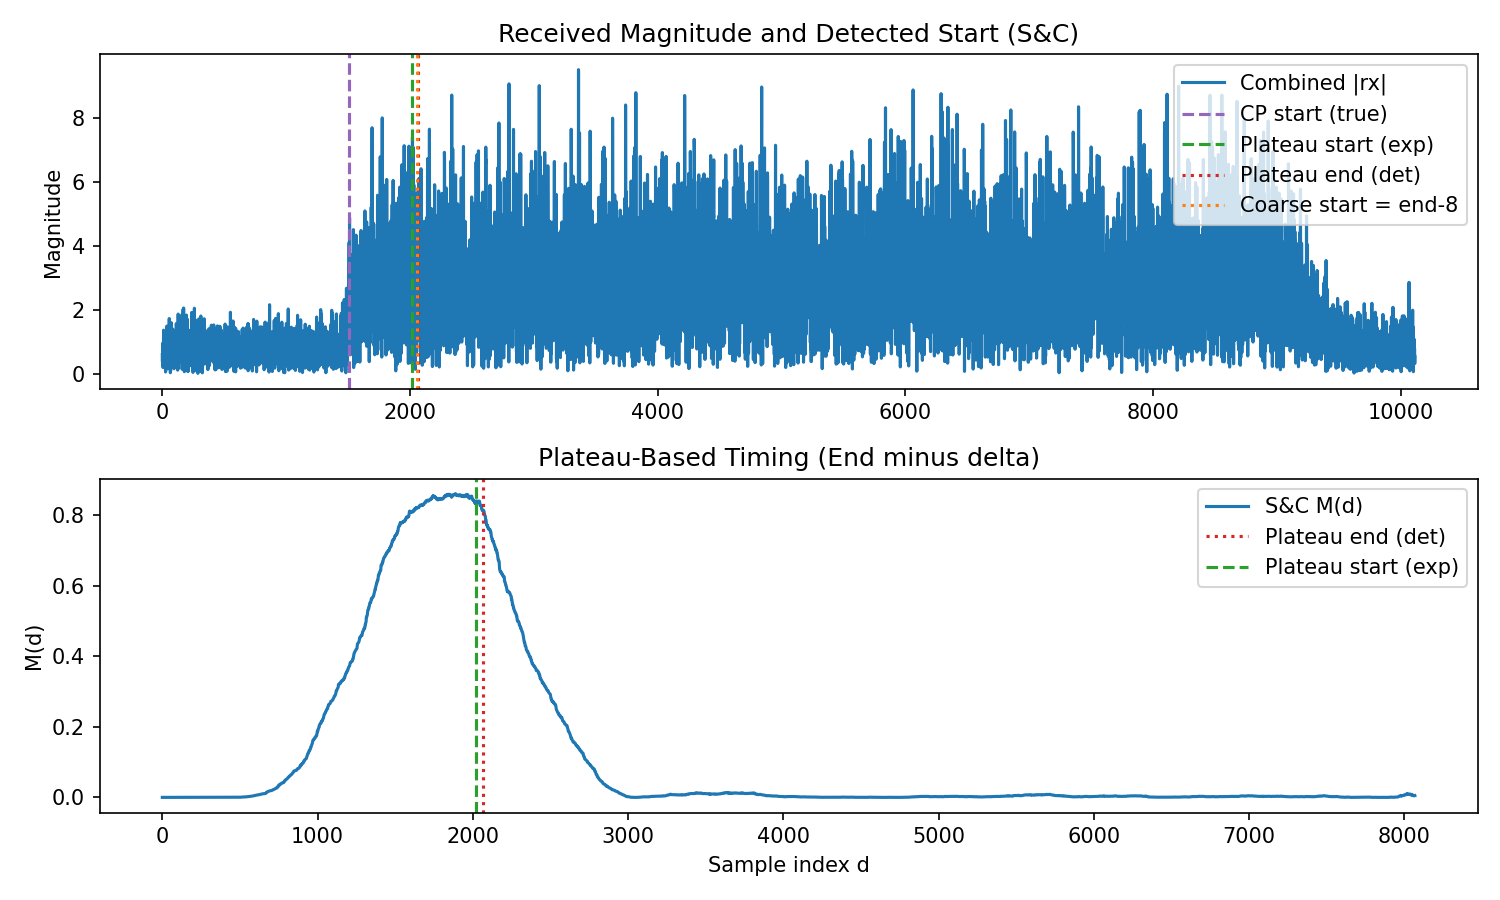
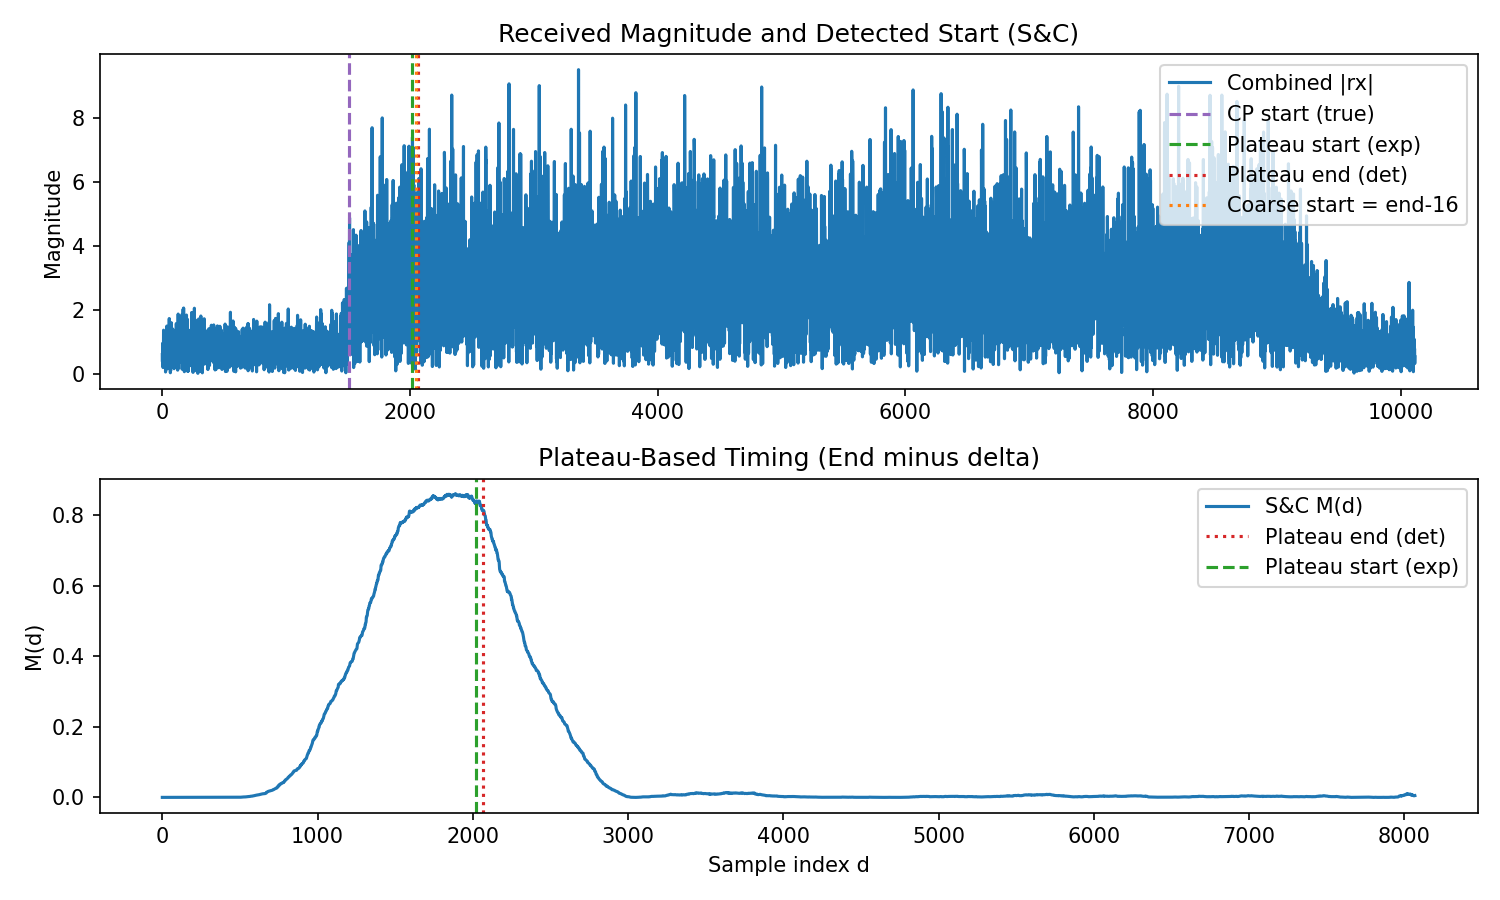
tweak seetings?

Changed region(s): [[0.7667, 0.0622, 0.9813, 0.2489]]

diff --git a/sc.py b/sc.py
@@ -149,7 +149,7 @@ def find_plateau_end_from_metric(
 # Detector and channel parameters (script-local)
 SNR_DB = 10.0
 CFO_HZ = 1000.0
-SC_DELTA = 8  # step back from plateau end to sit inside CP (8–16 suggested)
+SC_DELTA = 16  # step back from plateau end to sit inside CP (8–16 suggested)
 SMOOTH_WIN = 16  # samples for smoothing M(d) before slope detection
 
 # Output paths
